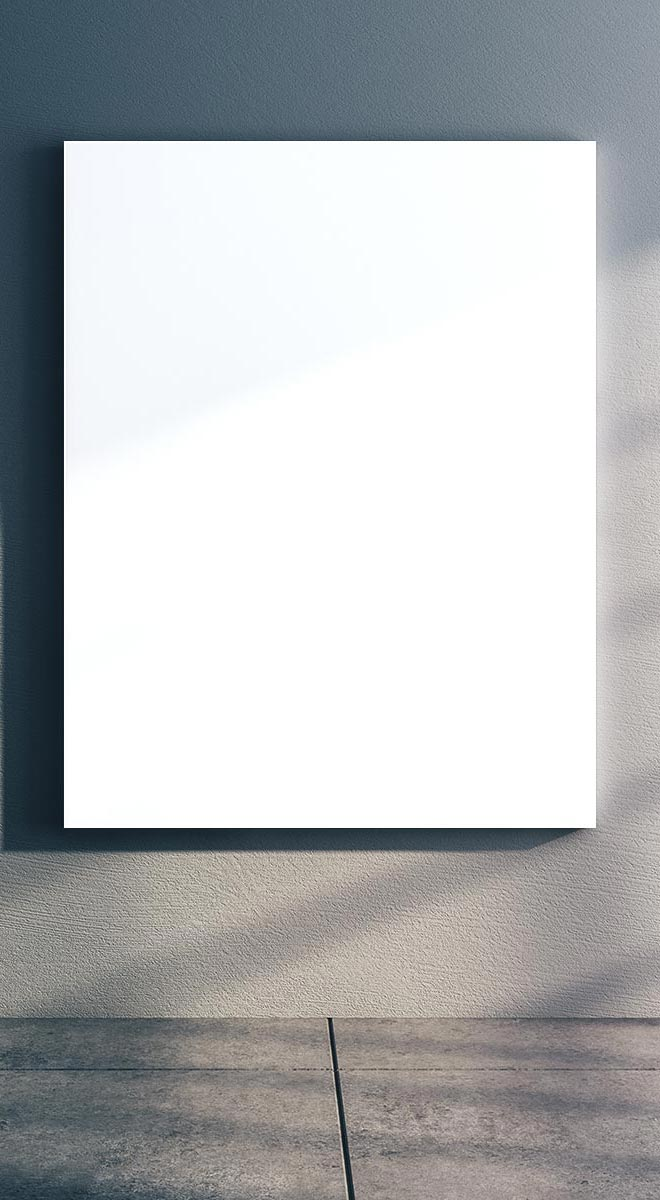
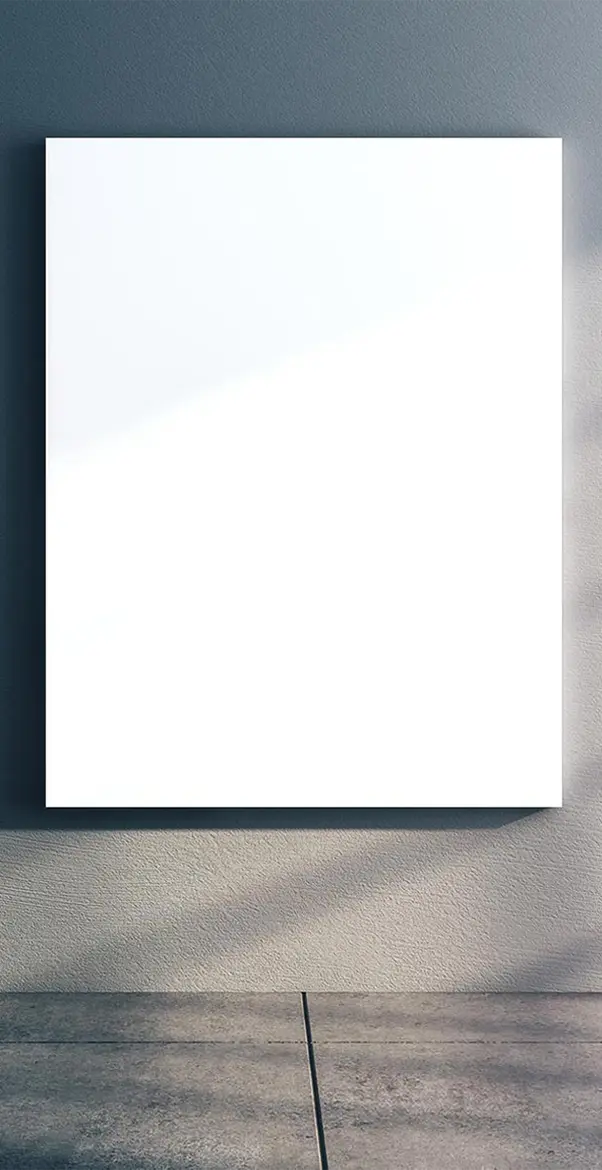
support for mobile

diff --git a/css/main.css b/css/main.css
@@ -31,8 +31,19 @@ body {
     }
     .contenedor > .content {
         width: 33.85%;
-        height: 58.5%;
         left: 42.25%;
         top: 11.5%;
+    }
+}
+
+@media screen and (max-width: 420px) {
+    body {
+        background-image: url('../img/360/marco.jpg');
+        background-position: center;
+    }
+    .contenedor > .content {
+        width: 90%;
+        left: 5%;
+        top:7%;
     }
 }
